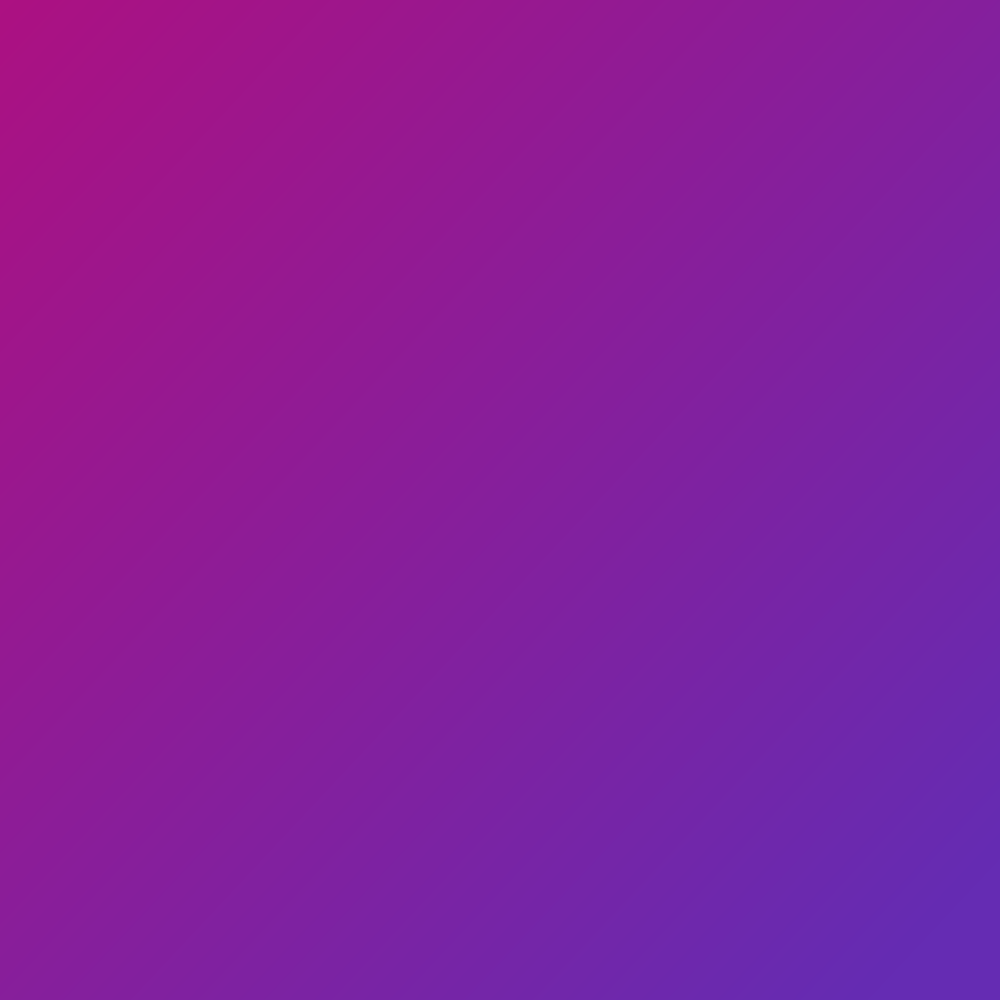
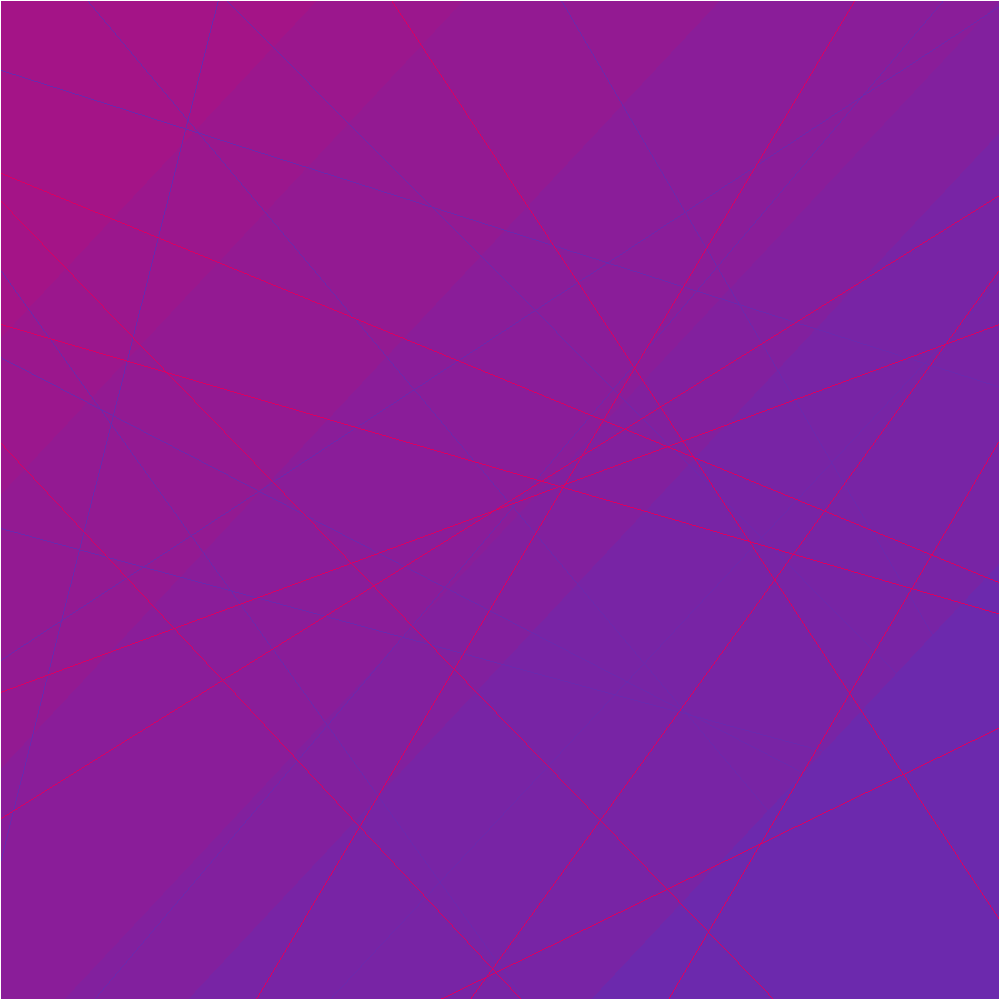
new background

Changed region(s): [[0.0, 0.0, 1.0, 1.0], [0.527, 0.465, 0.589, 0.496], [0.496, 0.496, 0.527, 0.527]]

diff --git a/client/index.js b/client/index.js
@@ -16,6 +16,7 @@ let aksfx
 let glocksfx
 
 
+
 let skin = "cat"
 
 let weapons =  [
@@ -79,11 +80,11 @@ function preload() {
   
 }
 function setup() {
-  frameRate(240)
   aksfx = loadSound('ak.mp3');
   glocksfx = loadSound('glock.mp3');
   
   createCanvas(window.innerWidth, window.innerHeight);
+  frameRate(60)
   pixelDensity(1);
   noSmooth()
   document.addEventListener('contextmenu', event => event.preventDefault());
@@ -153,6 +154,7 @@ function windowResized() {
 }
 
 function draw(){
+
   let dead = 1
 
   if (id != 99 && positions.length>id) {
@@ -201,7 +203,13 @@ function draw(){
 
 
 
+  noStroke()
+  // fill('#da0063')
+  image(img, width/2, height/2, width+4, height+4);
   image(img, xoffset, yoffset, 2000, 2000);
+  // rect(0, 0, width, height);
+  // fill('#652cb3')
+  // rect(xoffset-1000, yoffset-1000, 2000, 2000);
 
   // imageMode(CORNER)
   // for (i=-1000; i<1000; i+=400) {
@@ -325,6 +333,7 @@ function draw(){
   fill(255);
   stroke(0);
   text("FPS: " + fps.toFixed(0), 10, height - 10);
+
 }
 
 function mouseWheel(event) {
